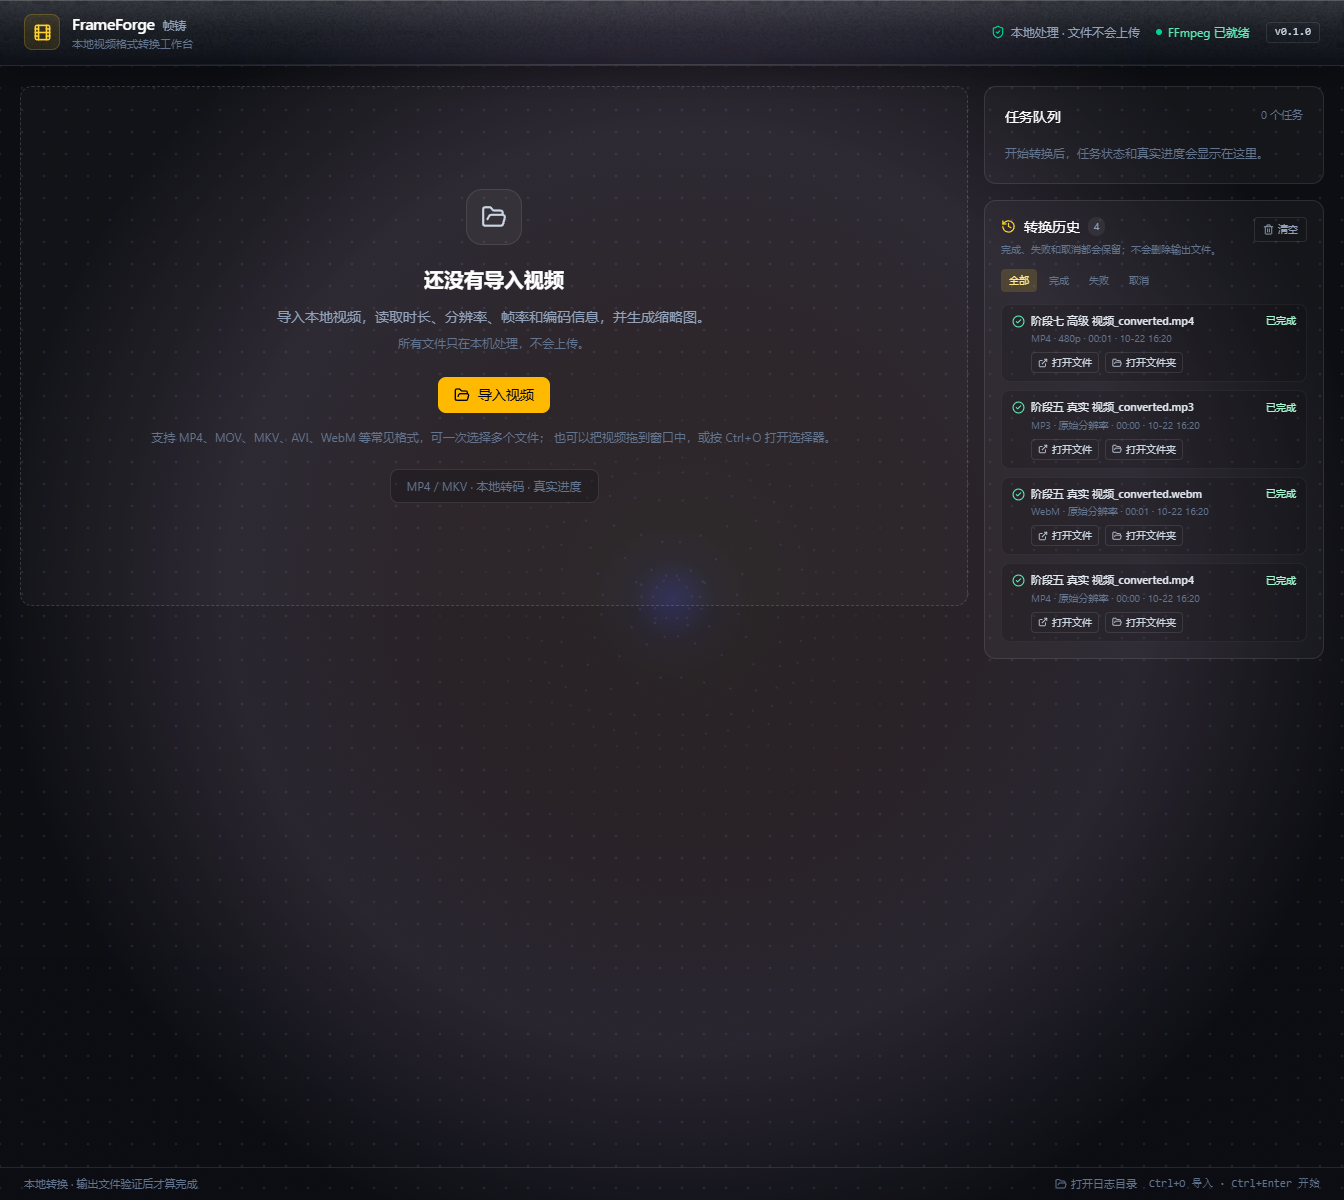
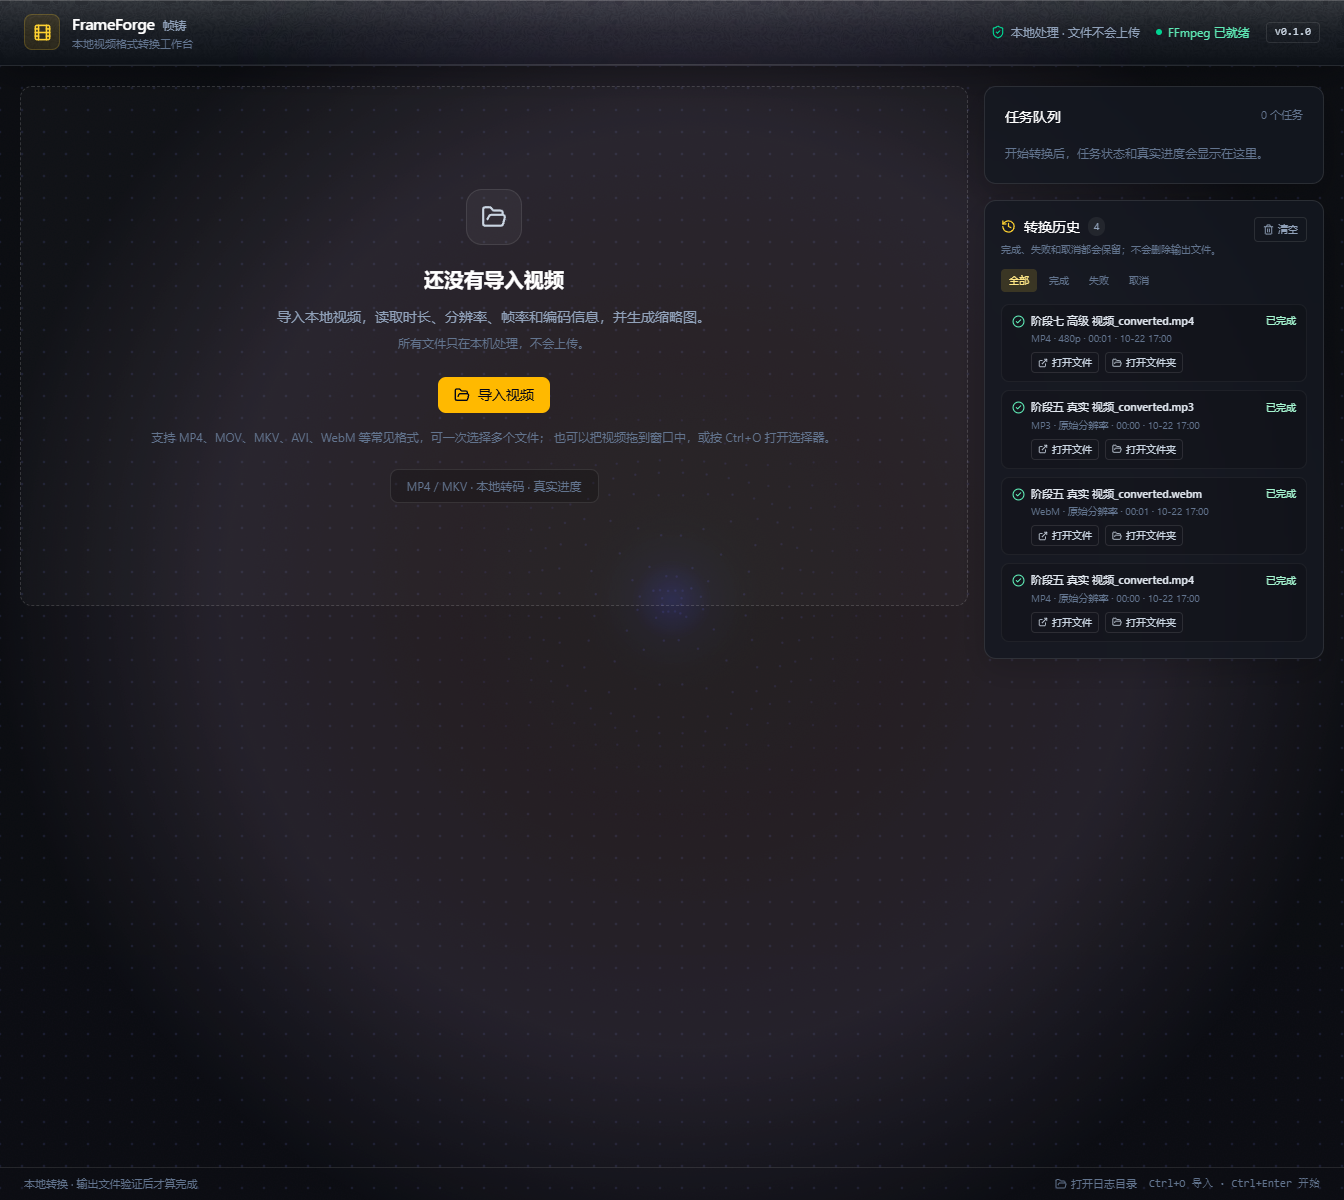
style: increase queue and history card opacity

Changed region(s): [[0.7188, 0.185, 0.875, 0.555]]

diff --git a/src/components/HistoryCard.tsx b/src/components/HistoryCard.tsx
@@ -153,7 +153,7 @@ export function HistoryCard({
   return (
     <section
       aria-label="转换历史"
-      className="rounded-xl border border-white/10 bg-white/[0.03] p-4"
+      className="rounded-xl border border-white/10 bg-[#141821]/80 p-4 shadow-[0_10px_30px_rgba(0,0,0,0.16)] backdrop-blur-md"
     >
       <div className="mb-3 flex items-start justify-between gap-2">
         <div className="min-w-0">

diff --git a/src/components/JobQueue.tsx b/src/components/JobQueue.tsx
@@ -102,7 +102,7 @@ export function JobQueue({
   return (
     <section
       aria-label="任务队列"
-      className="rounded-xl border border-white/10 bg-white/[0.03] p-5"
+      className="rounded-xl border border-white/10 bg-[#141821]/80 p-5 shadow-[0_10px_30px_rgba(0,0,0,0.16)] backdrop-blur-md"
     >
       <div className="mb-4 flex items-start justify-between gap-3">
         <div>
